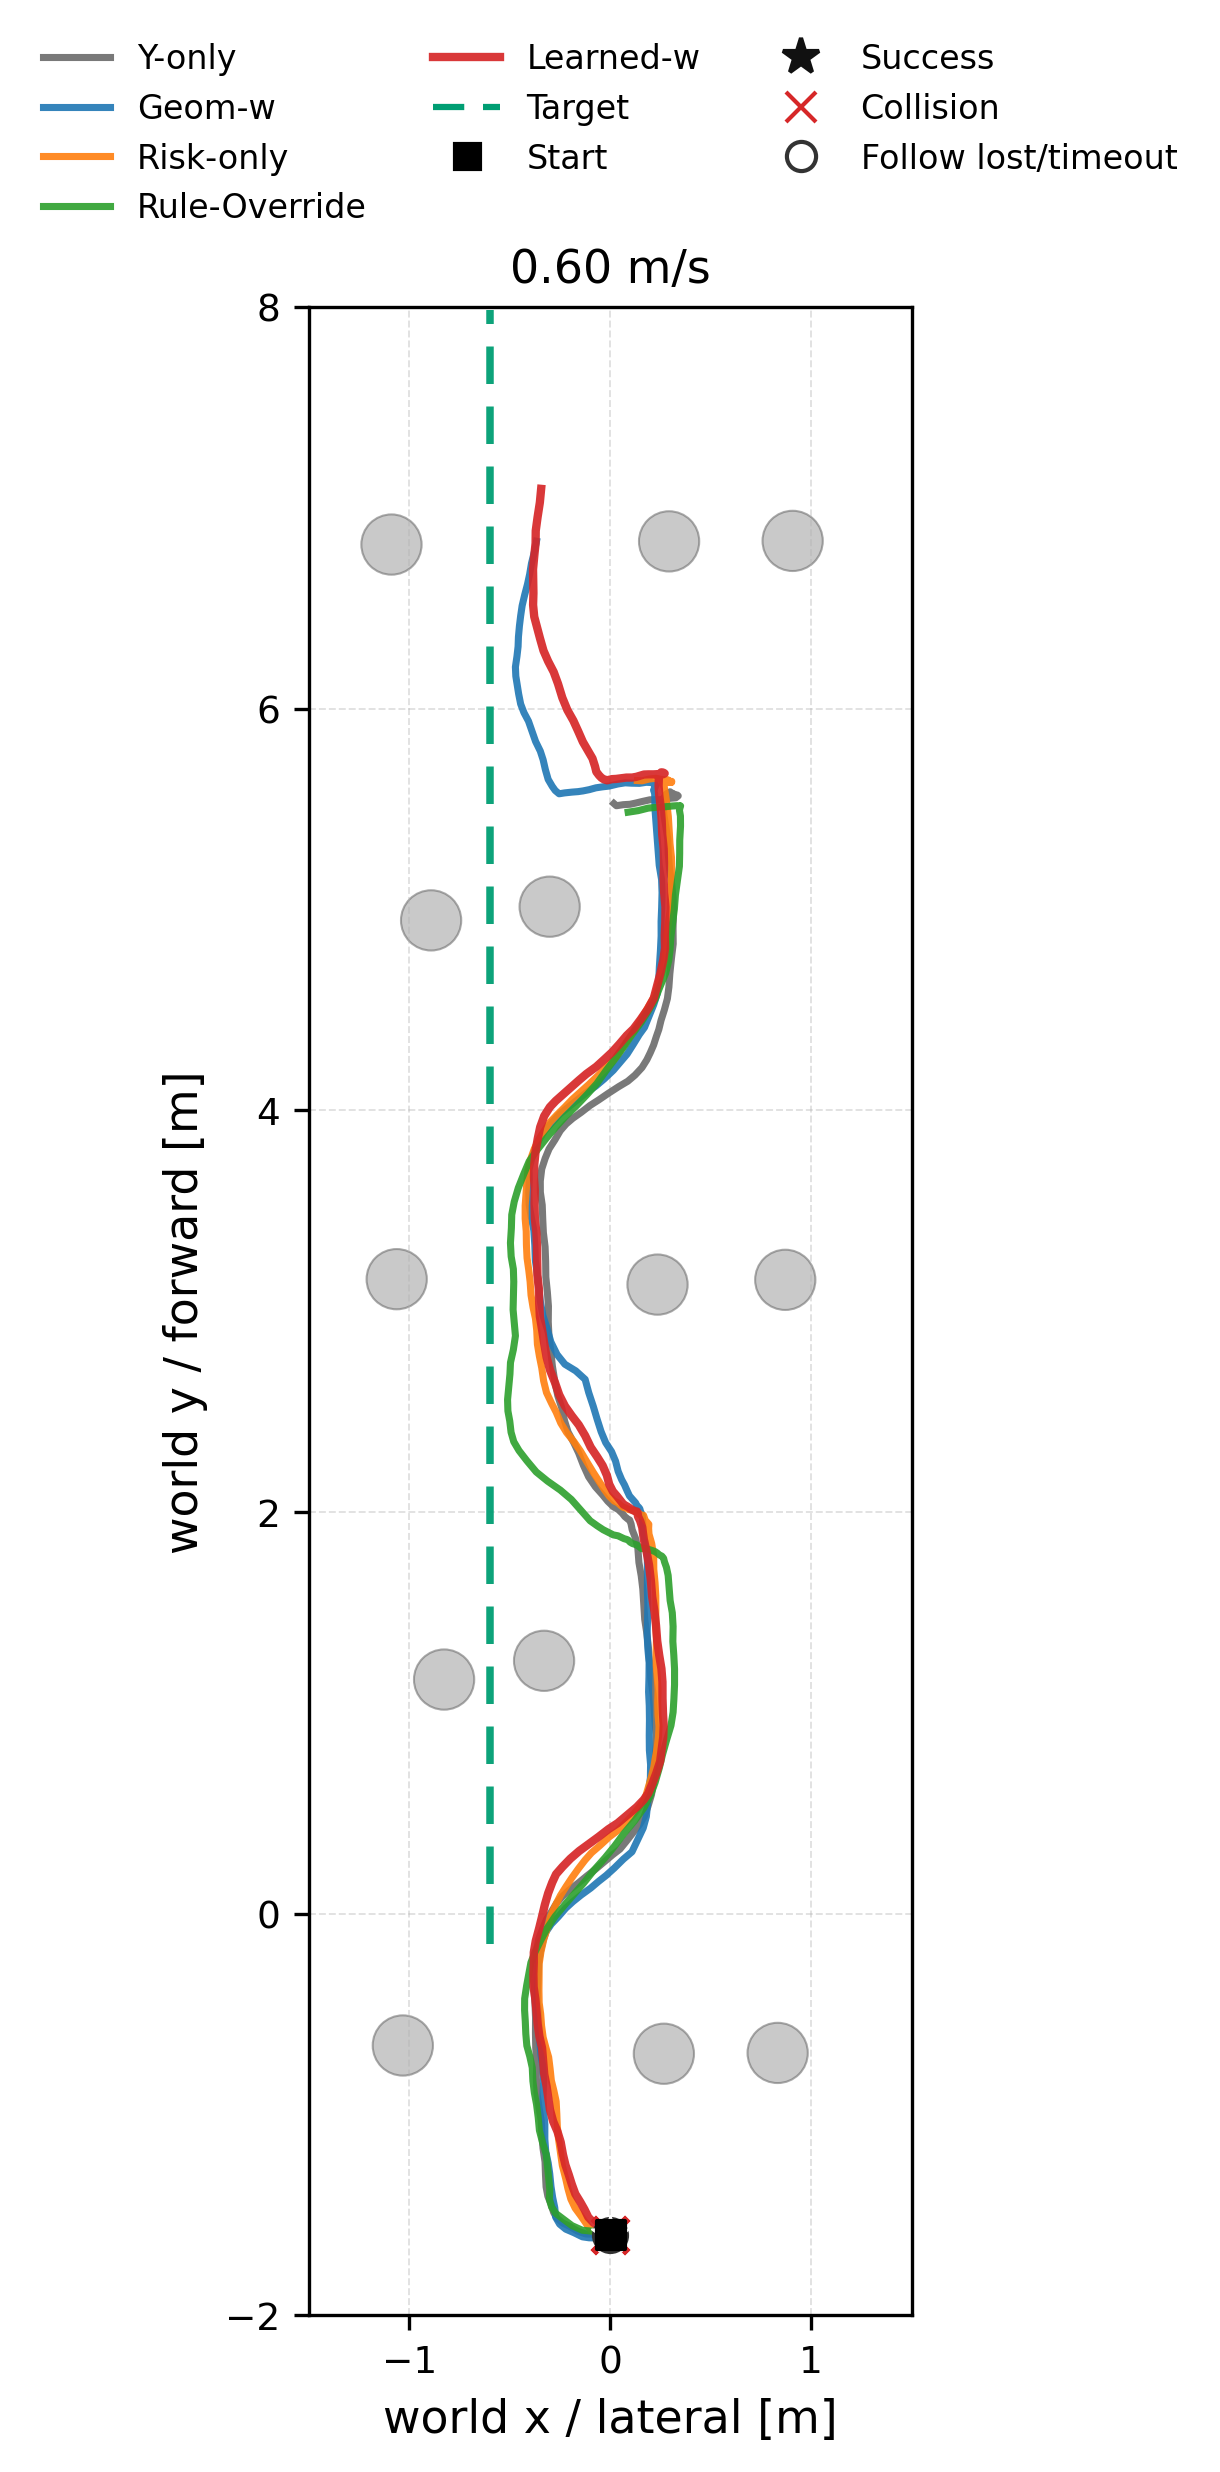
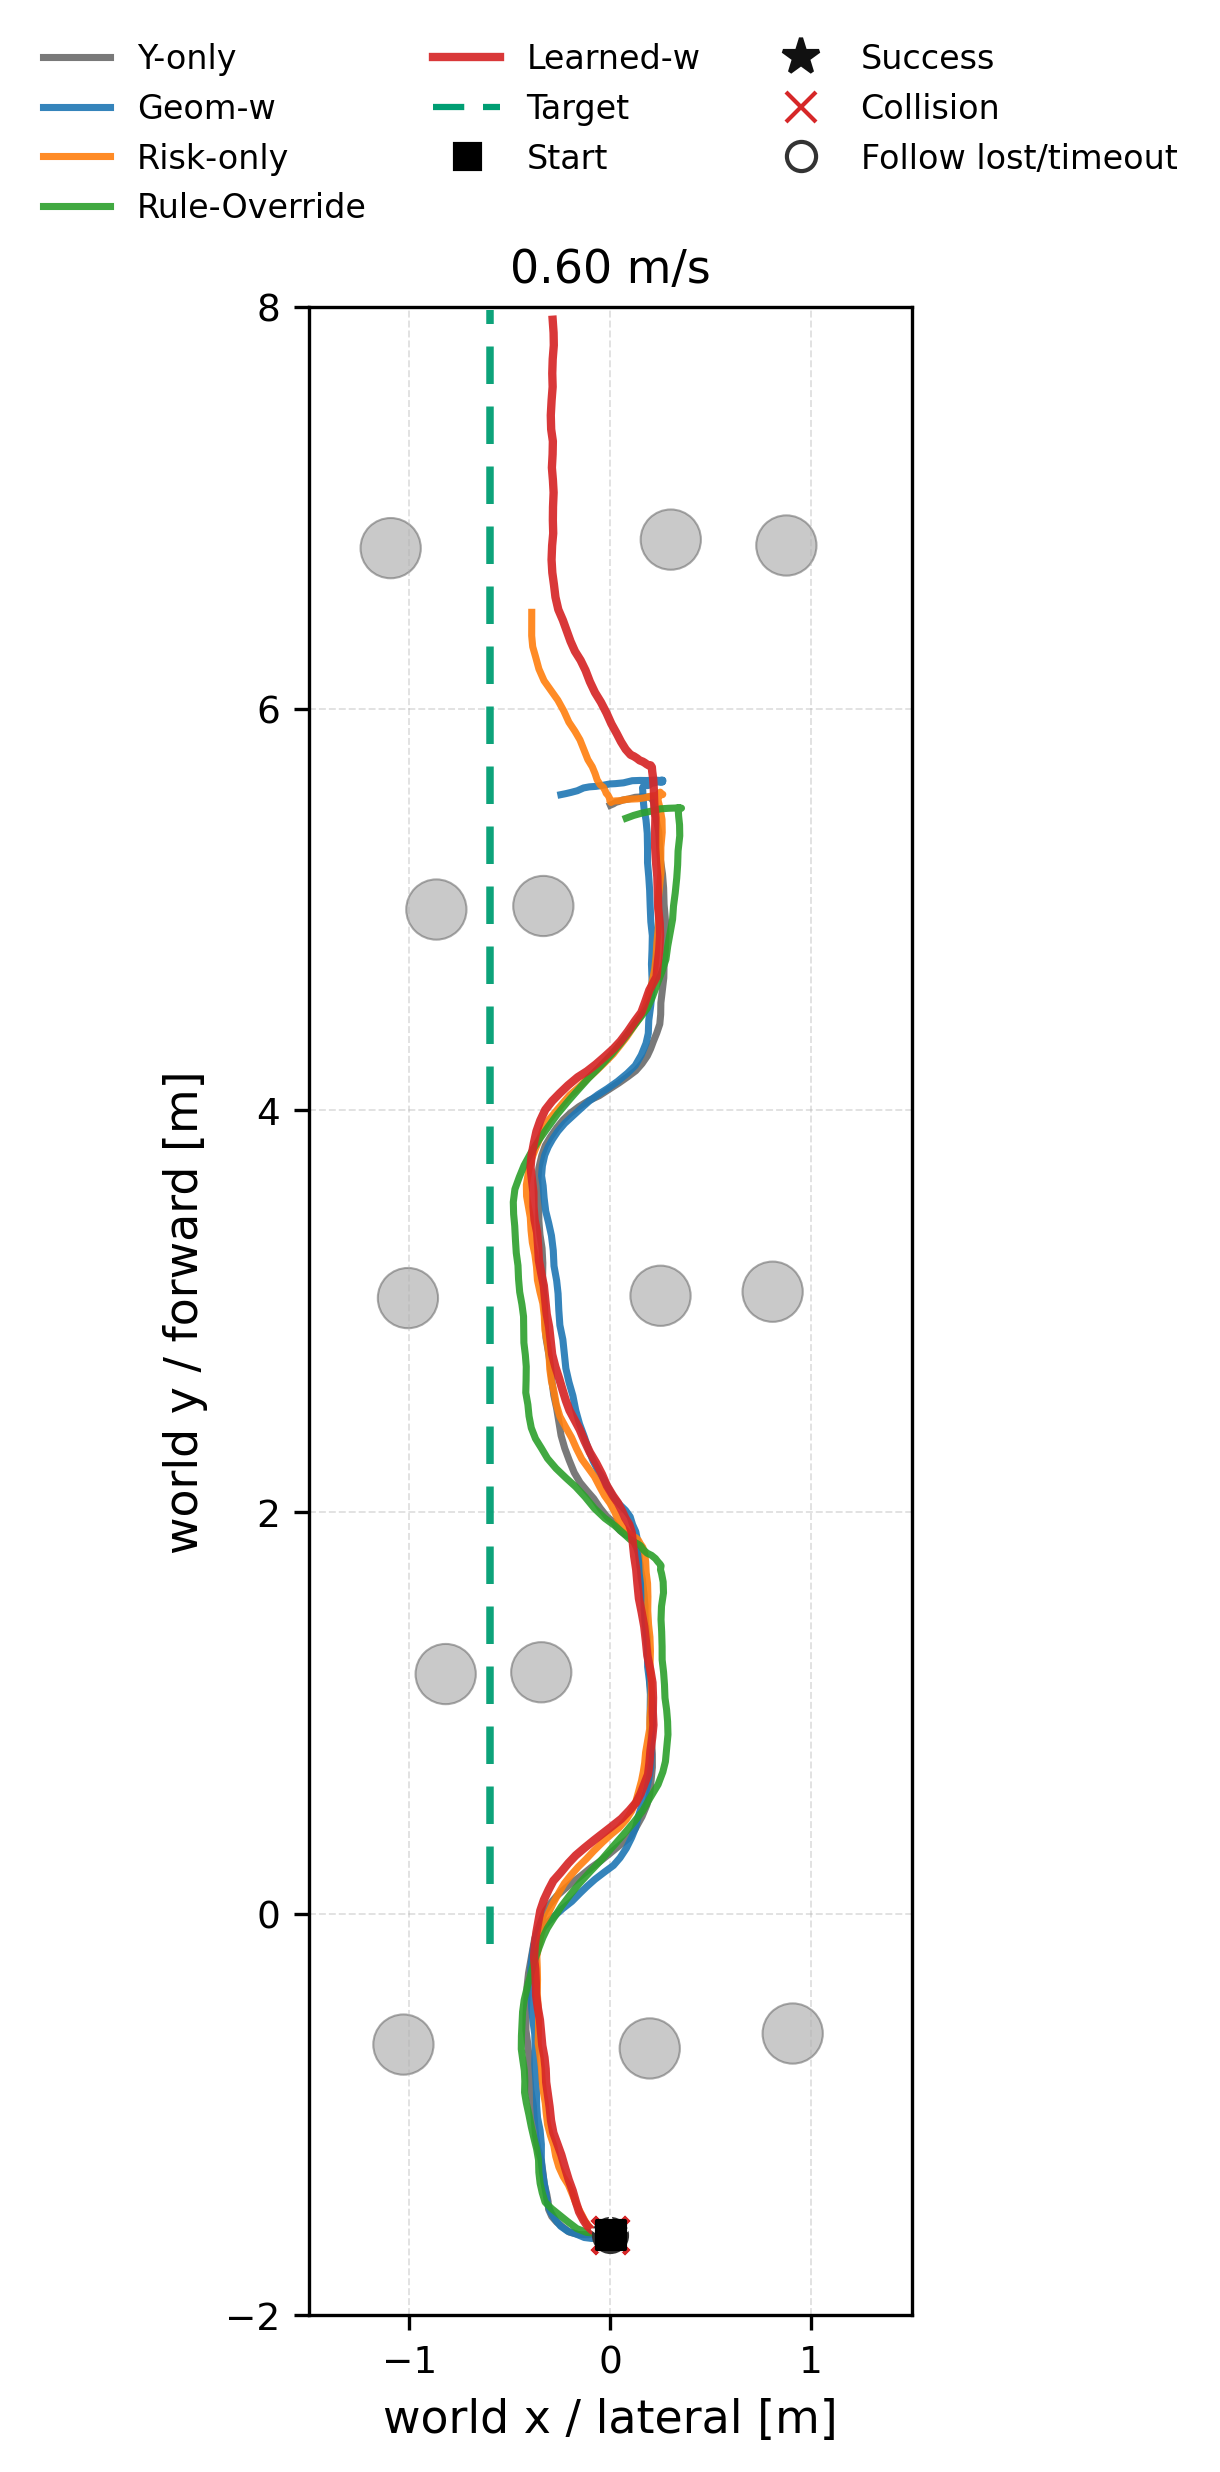
1

diff --git a/agents/final_paper_outputs_v3/MANIFEST.md b/agents/final_paper_outputs_v3/MANIFEST.md
@@ -46,7 +46,7 @@ Source files and paths:
 - mono_stage3_path: `agents/eval_data_mono_targetview_stage_probe/stage3_s035` (mtime=2026-06-04 17:28:17)
 - mono_stage4_all_csv: `agents/eval_data_mono_targetview/pcr_main_table/pcr_main_table_all_metrics_20260604_160305.csv` (mtime=2026-06-04 16:03:05)
 - learnedw_mechanism_dir: `agents/eval_data/s_0.6/moe_teacher_s_pcr_line_avoid_basic_learnedw2_signed_lam0.3_gam0.15_m0.05_rowrel_aux0.05_riskmem_lc0.4_seed1_20260526_204857` (mtime=2026-05-27 14:30:15)
-- fig6_timeseries_root: `agents/eval_data_fig6_trajectories_worldxy` (mtime=2026-06-12 04:48:53)
+- fig6_timeseries_root: `None` (mtime=missing)
 
 Risk-only source mode:
 
@@ -62,5 +62,5 @@ Validation checklist:
 - Table II: Params should separate Risk-only and Learned-w.
 - Table A5: contains Delta y_w / Delta y_r / Delta y_total over All, C_unsafe, C_avoid.
 - Fig.4: x-axis label must be Conflict intensity and Delta y must equal y_eff - y_raw.
-- Fig.6: if requested, 0.60 m/s timeseries must contain robot_x/y, target_x/y, obstacles_json, episode_termination_reason, and trajectory_frame=world_xy_train_play; default selection uses one shared obstacle layout, requires learned-w success, and prefers 2-3 baseline collisions plus at least one lost/timeout trajectory when available.
+- Fig.6: if requested, 0.60 m/s timeseries must contain robot_x/y, target_x/y, obstacles_json, episode_termination_reason, and trajectory_frame=world_xy_train_play; roots may be inferred from main-table CSV sources; default selection uses one shared obstacle layout, requires learned-w success, and prefers 2-3 baseline collisions plus at least one lost/timeout trajectory when available.
 - Table III: expected stages 2, 3, and 4; use --allow_incomplete_mono_stage_probe only for local dry-runs.
